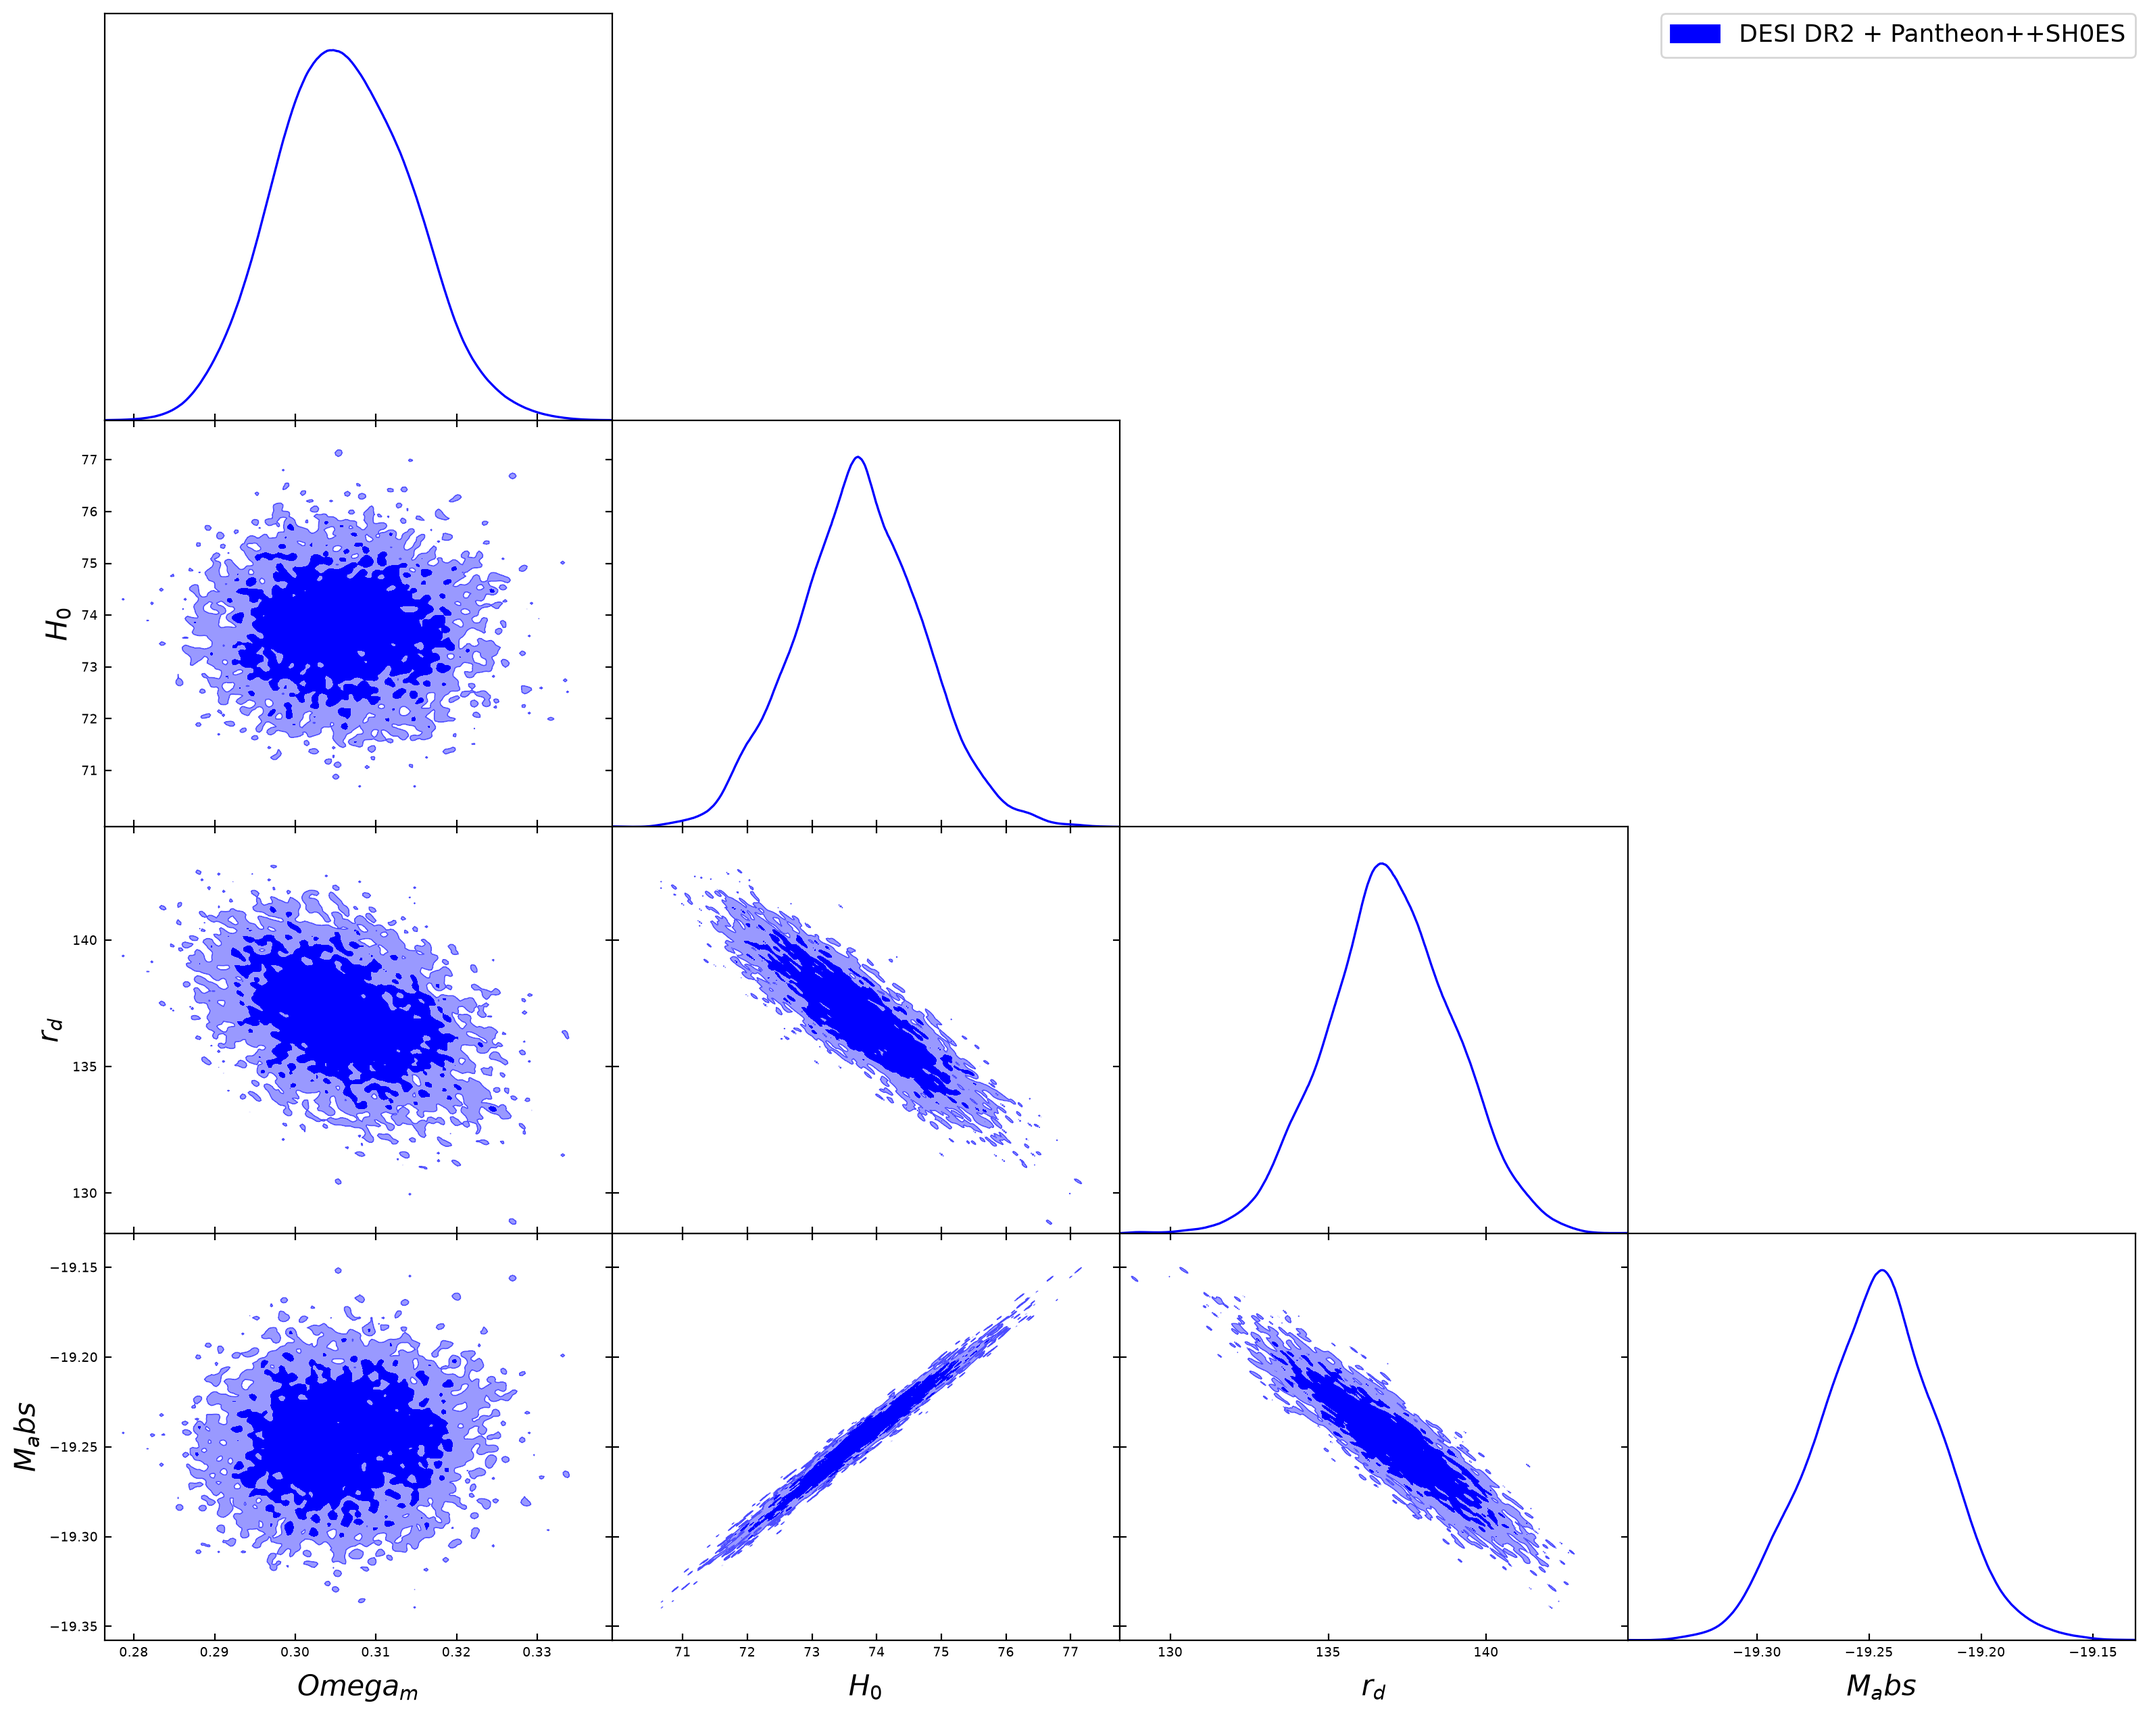
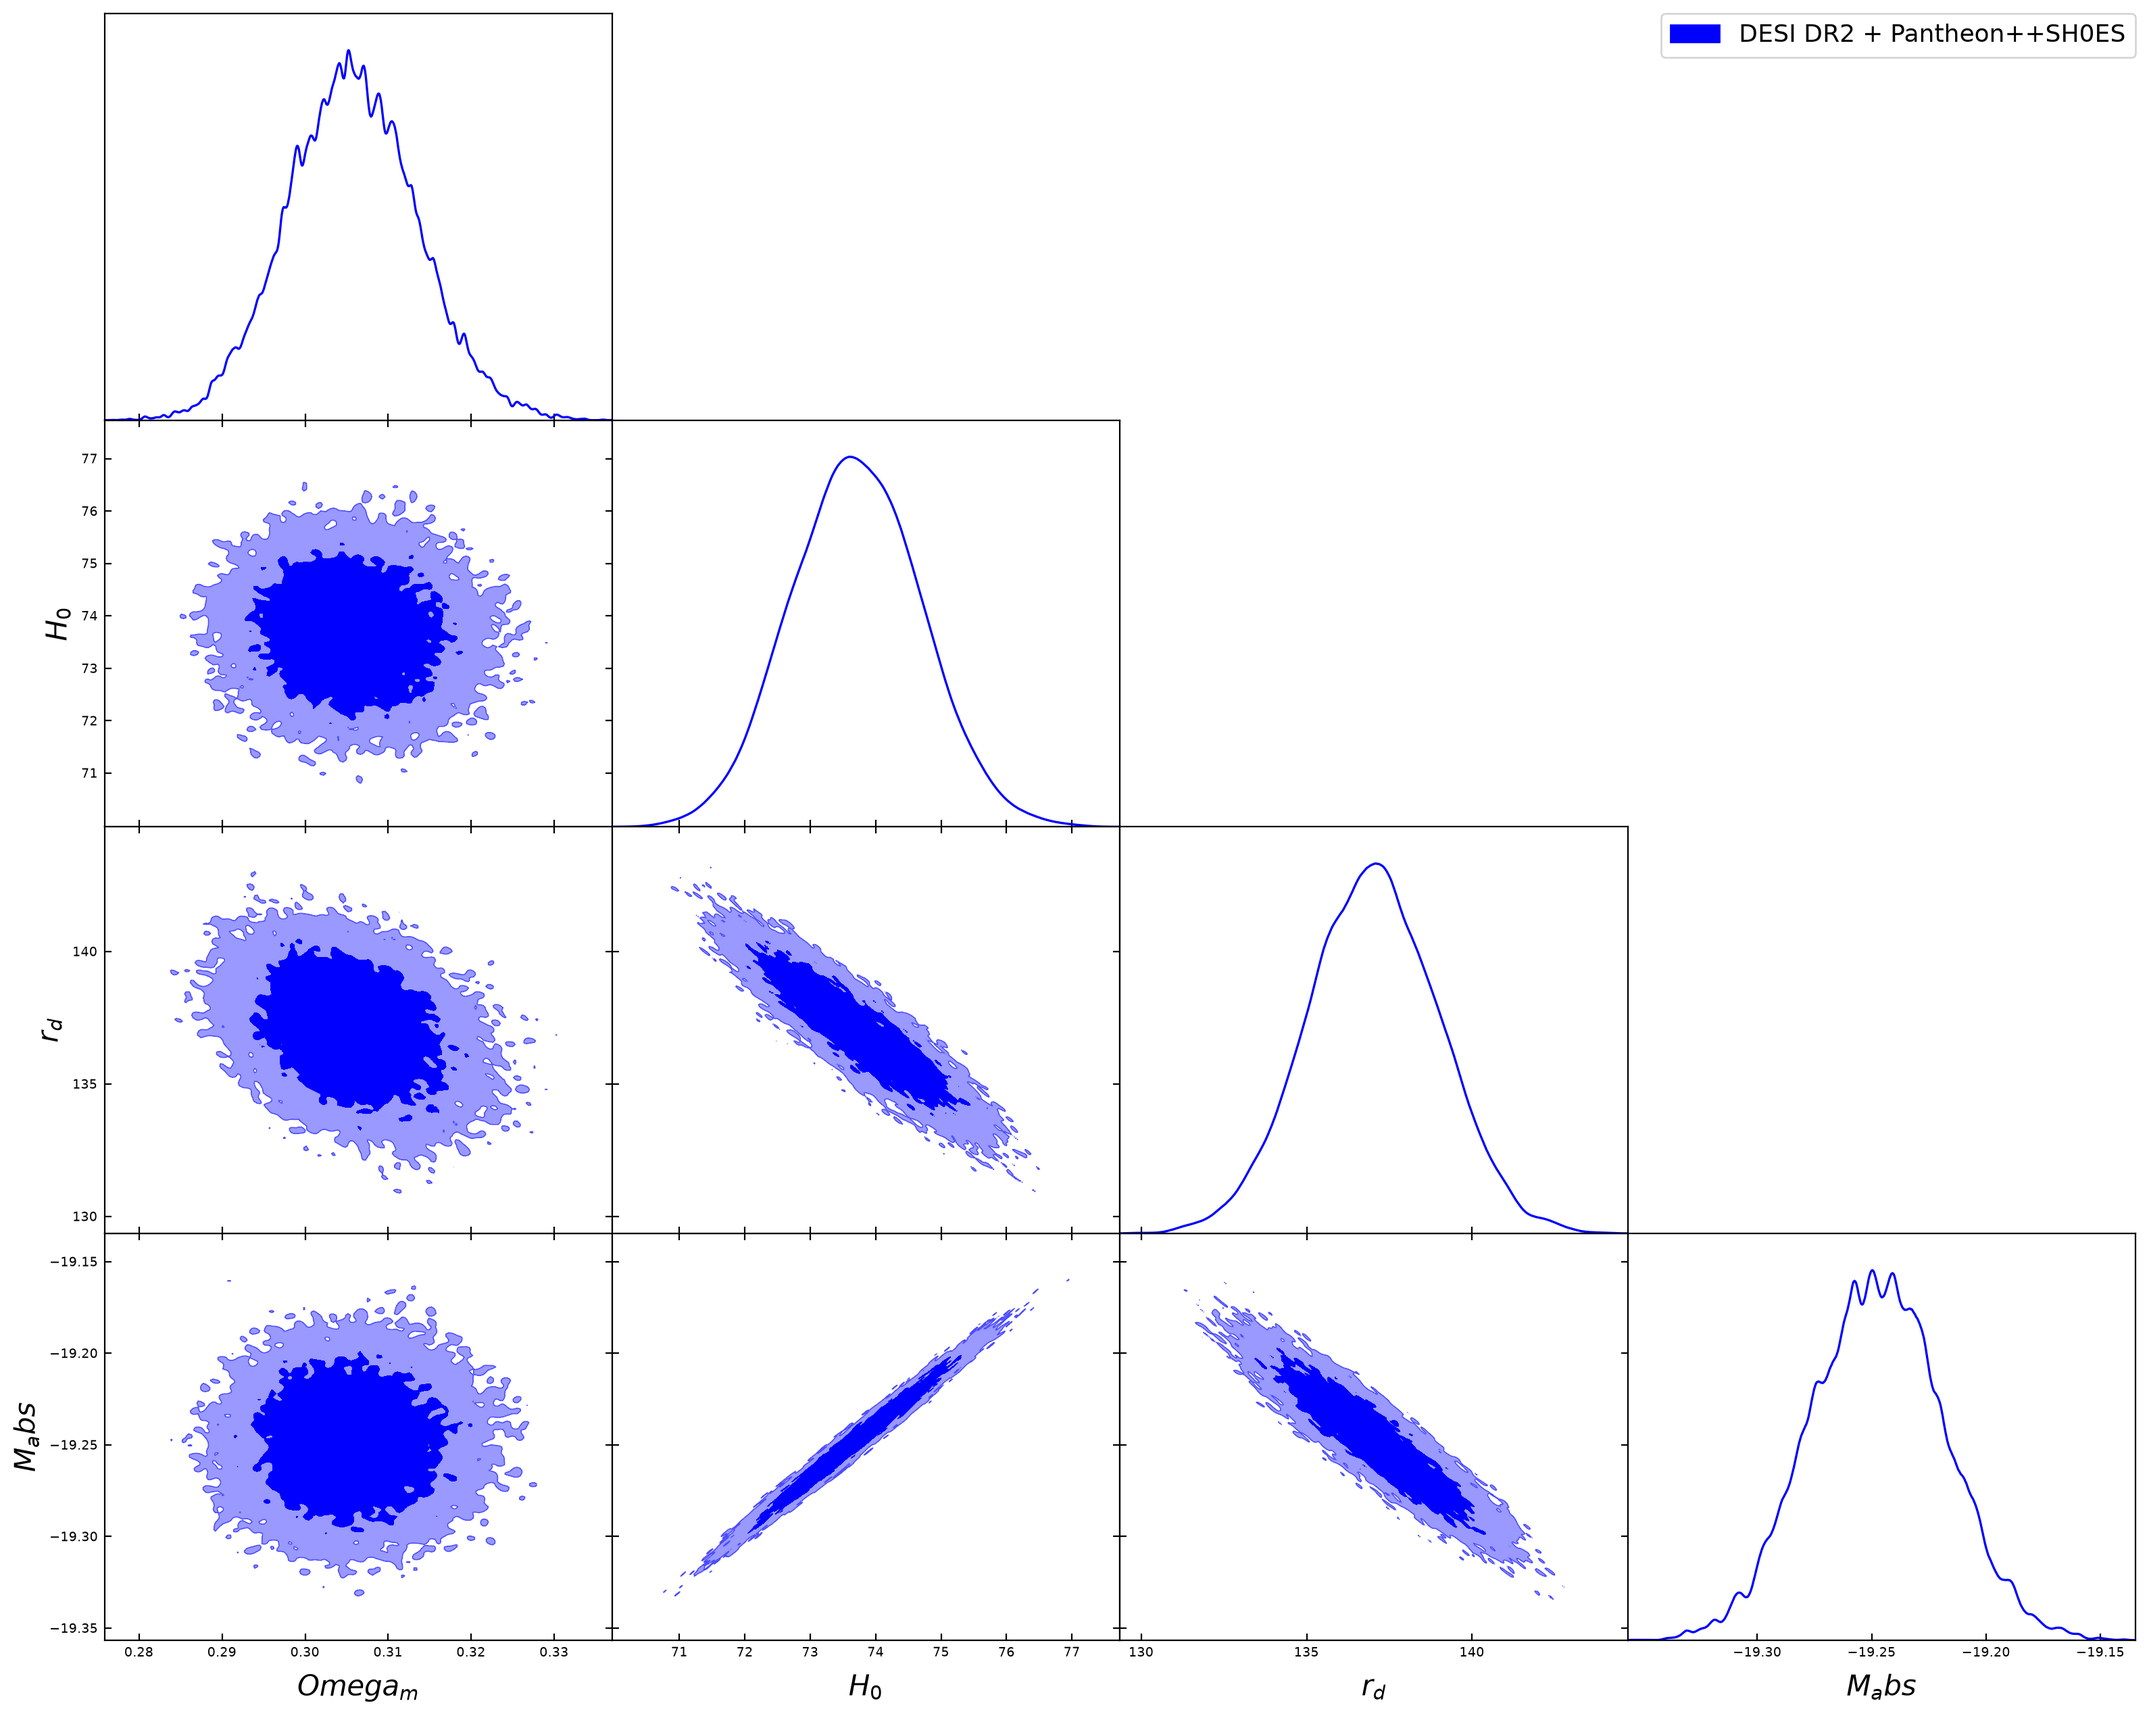
Set up that returns -5.9 for DESI+union3

diff --git a/Kosmulator_main/Statistical_packages.py b/Kosmulator_main/Statistical_packages.py
@@ -960,8 +960,11 @@ def Calc_Generic_SNe_chi(
     # 1. Marginalize M_abs (if present)
     #    (JLA doesn't have it -> M=0 -> Data is Absolute)
     #    (DESY5/Union3 have it -> M!=0 -> Data is Apparent)
-    M = param_dict.get("M_abs", -19.35)
-    residual = (type_data - M) - model
+    if obs_data.get("data_is_distance_modulus", False):
+        residual = type_data - model
+    else:
+        M = param_dict.get("M_abs", -19.35)
+        residual = (type_data - M) - model
 
     # 2. Check for Covariance (Union3)
     if "inv_cov" in obs_data:
@@ -1163,6 +1166,11 @@ def Calc_DESI_chi(data, Model_func, param_dict, Type) -> float:
             types[types == 4] = 3
 
     theo = np.full_like(meas, np.nan, dtype=float)
+    #Added change here in order to check NaNs of w0wa values for NaN
+    supported_types = {3, 5, 6, 7, 8}
+    unknown_types = [int(t) for t in set(types) if int(t) not in supported_types]
+    if unknown_types:
+        raise ValueError(f"DESI: unhandled type code(s): {unknown_types}. Supported: 3,5,6,7,8")
     m3 = types == 3
     m5 = types == 5
     m6 = types == 6
@@ -1175,9 +1183,8 @@ def Calc_DESI_chi(data, Model_func, param_dict, Type) -> float:
     theo[m7] = rs / DV[m7]
     theo[m8] = DM[m8] / rs
 
-    if np.isnan(theo).any():
-        unknown = sorted(set(types[np.isnan(theo)]))
-        raise ValueError(f"DESI: unhandled type code(s): {unknown}. Supported: 3,5,6,7,8")
+    if not np.isfinite(theo).all():
+        return 1e300
 
     diff = theo - meas
 

diff --git a/Kosmulator_main/Config.py b/Kosmulator_main/Config.py
@@ -793,6 +793,7 @@ def load_all_data(config, prior_limits=None, logger=None) -> Dict[str, Any]:
                     data_sne["cov"] = cov_total
                     data_sne["inv_cov"] = inv_cov_total
 
+                data_sne["data_is_distance_modulus"] = (obs == "Union3")
                 observation_data[obs] = data_sne
             # ------------------
             # Default loader

diff --git a/Kosmulator.py b/Kosmulator.py
@@ -73,7 +73,8 @@ model_names: List[str] = ["wowaCDM_v"]
 
 # Each inner list is a combined likelihood
 observations: List[List[str]] = [
-    ['DESI_DR2', 'PantheonPS'],
+    ['DESI_DR2', 'Union3'],
+    #['DESI_DR2', 'PantheonPS'],
     #['JLA'],
     #['JLA','CC'],
     #['OHD'],
